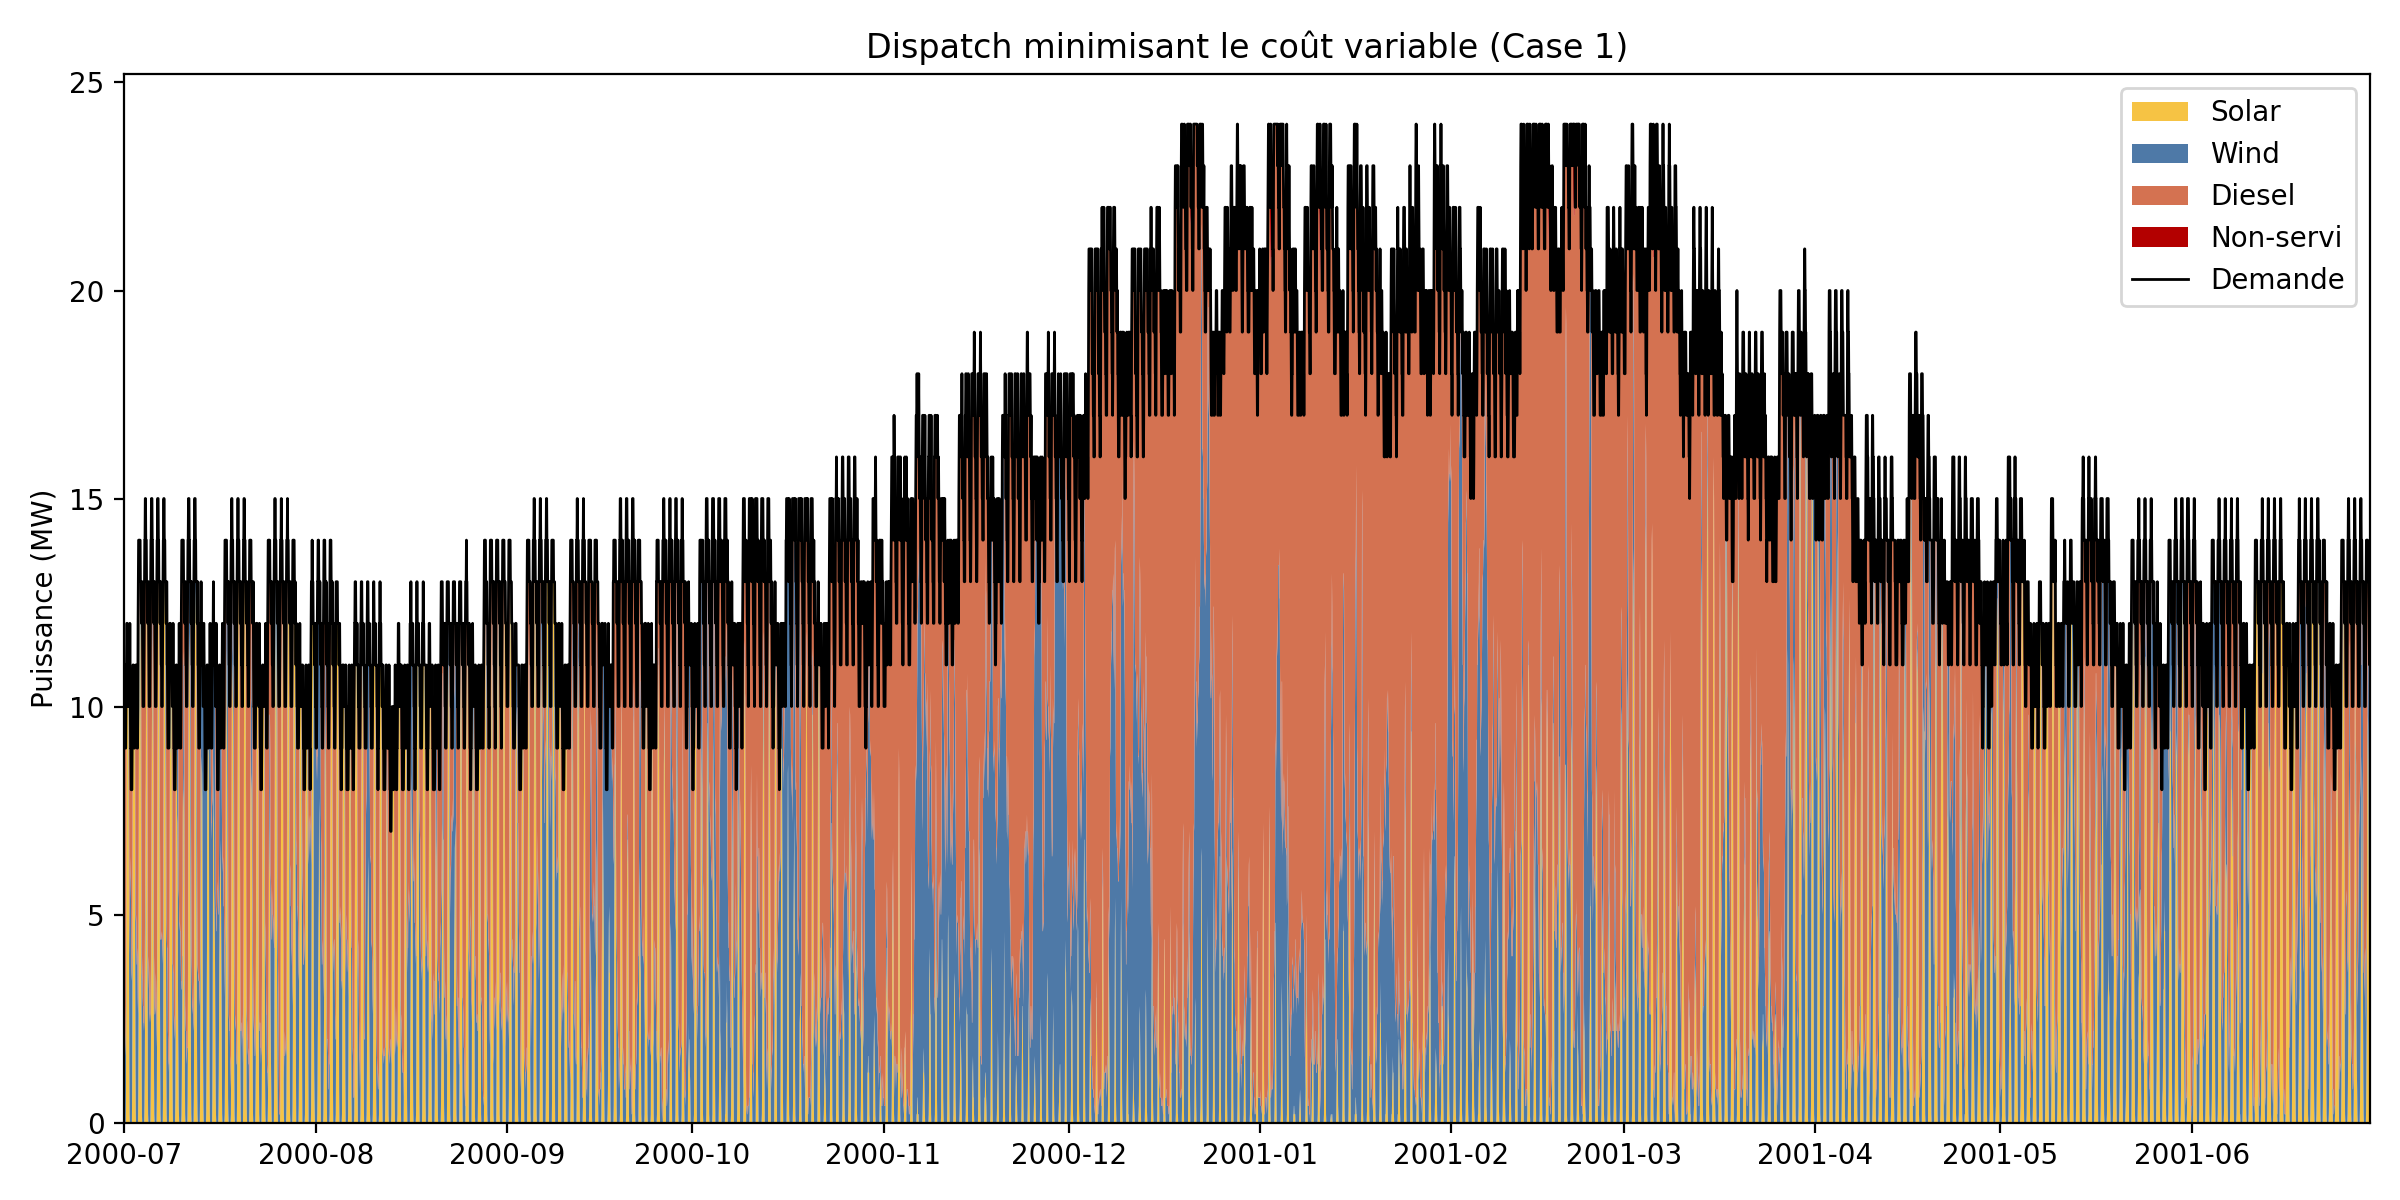
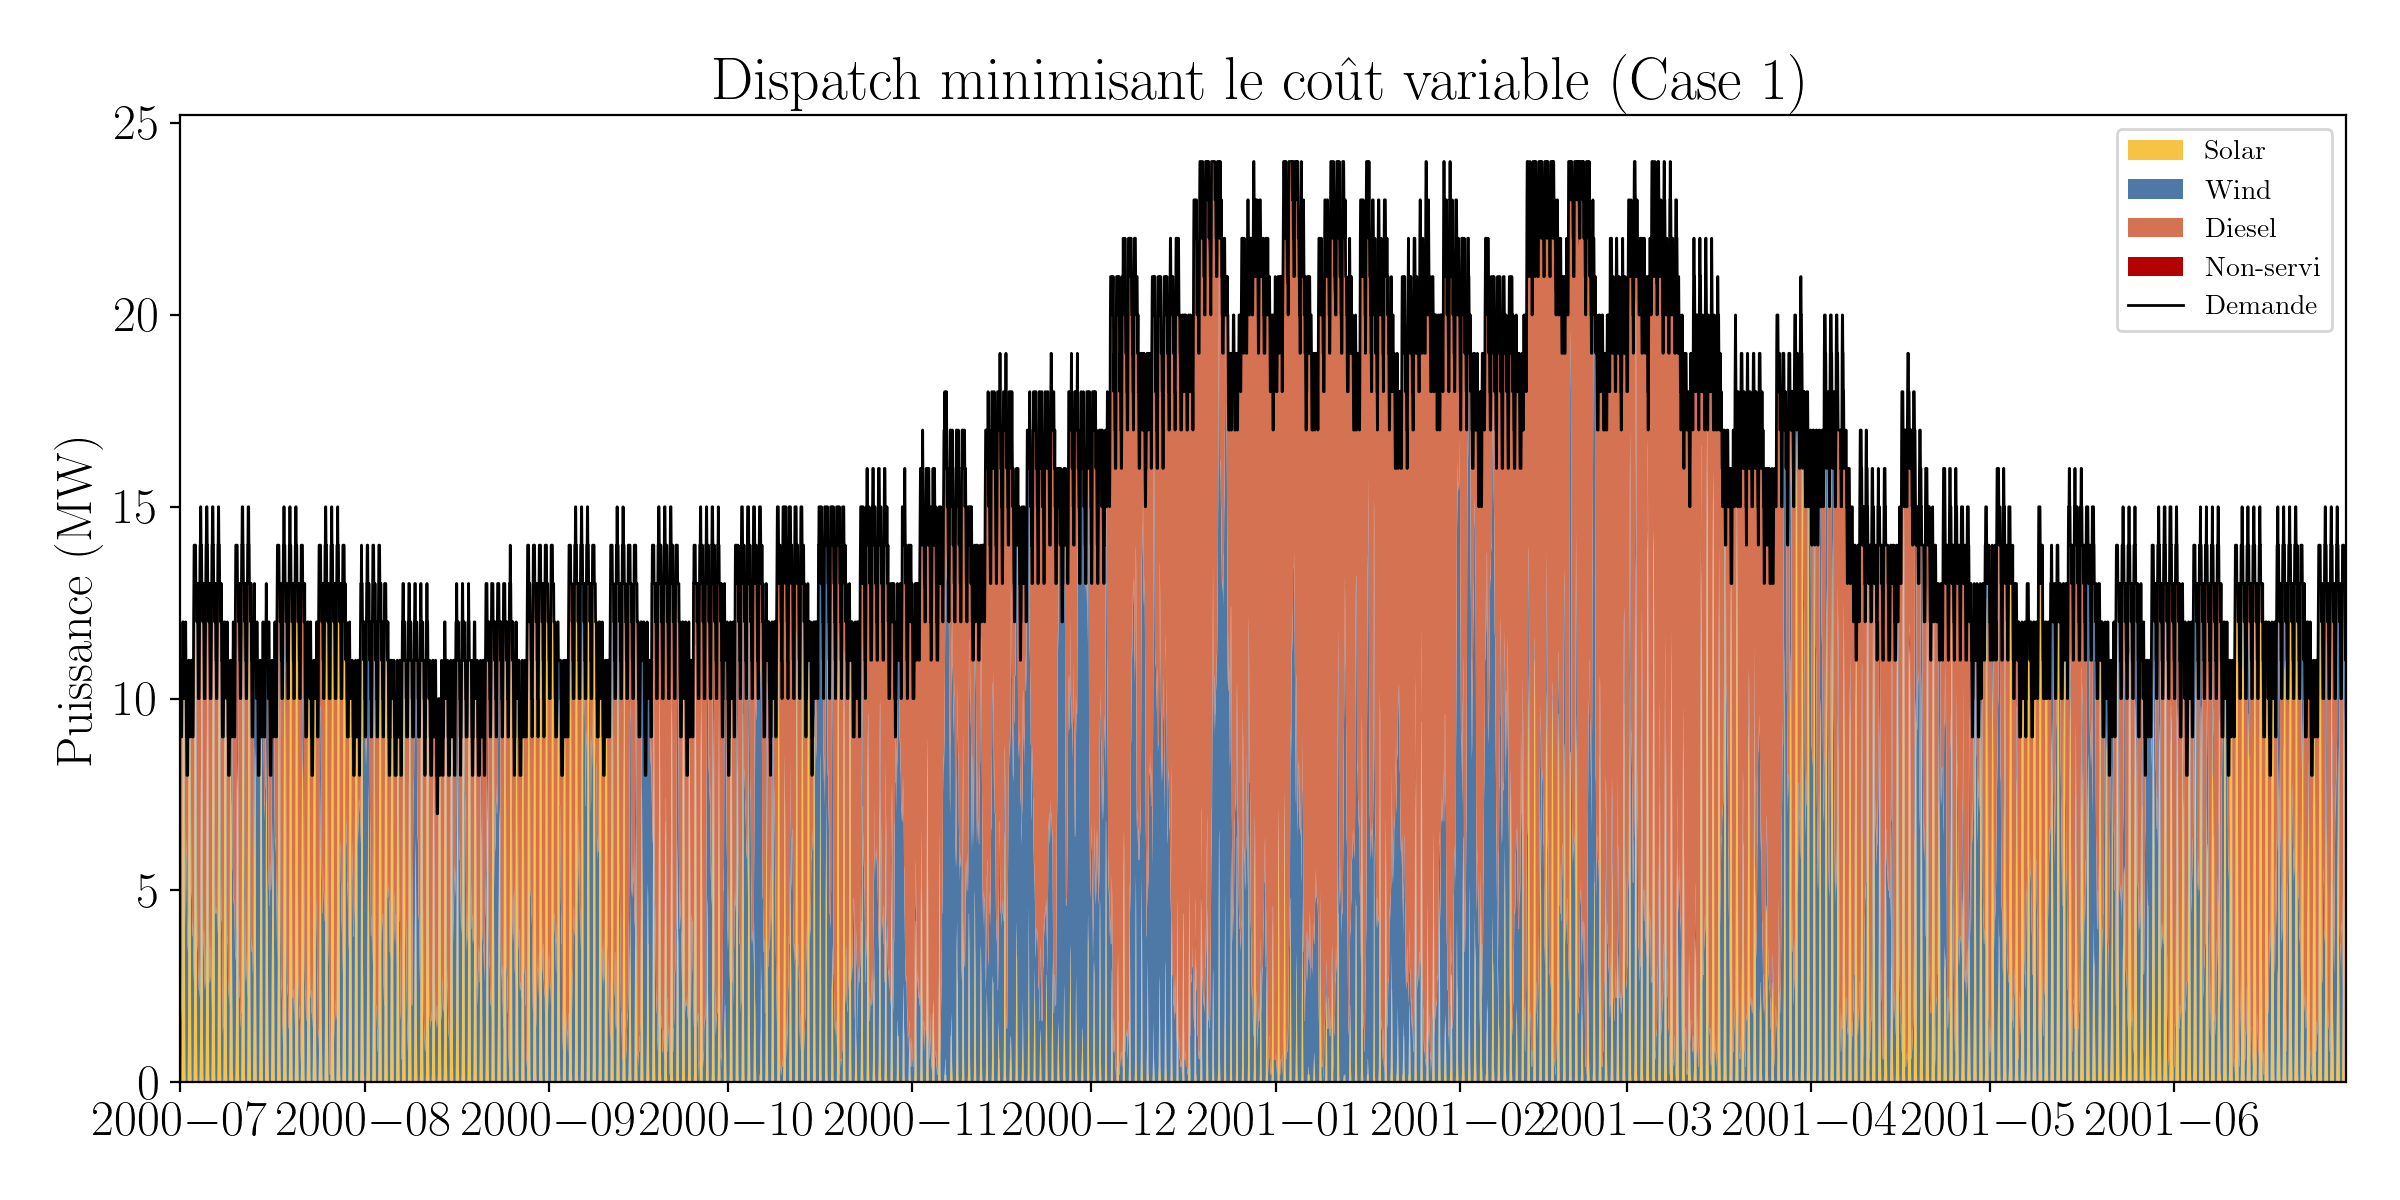
allocation min added

diff --git a/streamlit_dashboard.py b/streamlit_dashboard.py
@@ -1,0 +1,248 @@
+"""Dashboard Streamlit : profils bruts (charge et facteurs de charge) avec zoom/pan."""
+from pathlib import Path
+
+import pandas as pd
+import plotly.graph_objects as go
+from plotly.subplots import make_subplots
+import streamlit as st
+
+
+EXCEL_DEFAULT = Path("5EA14_project_isolated-system.xlsx")
+REF_COL = 8  # colonne "Ref case" dans la feuille summary
+
+st.set_page_config(layout="wide", page_title="Profils bruts énergie")
+
+
+@st.cache_data(show_spinner=False)
+def load_inputs(excel_path: Path) -> tuple[pd.DataFrame, dict]:
+    """Charge les séries brutes (load, facteurs de charge) et les capacités de référence pour info."""
+    summary = pd.read_excel(excel_path, sheet_name="summary", header=None)
+    capacities = {
+        "solar": float(summary.loc[2, REF_COL]),
+        "wind": float(summary.loc[3, REF_COL]),
+        "diesel": float(summary.loc[4, REF_COL]),
+    }
+    costs = {
+        "diesel": float(summary.loc[7, 2]),
+        "unserved": float(summary.loc[6, 2]),
+    }
+
+    raw = pd.read_excel(excel_path, sheet_name="Ref case", header=None)
+    data = (
+        raw.iloc[4:, [4, 5, 19, 20]]
+        .rename(columns={4: "time", 5: "load", 19: "solar_cf", 20: "wind_cf"})
+        .dropna(subset=["load"])
+    )
+    data["time"] = pd.to_datetime(data["time"])
+    for col_name in ("load", "solar_cf", "wind_cf"):
+        data[col_name] = pd.to_numeric(data[col_name], errors="coerce")
+    data = data.dropna(subset=["time", "load"]).reset_index(drop=True)
+    return data, {"capacities": capacities, "costs": costs}
+
+
+def dispatch_min_cost(load: pd.Series, solar_cf: pd.Series, wind_cf: pd.Series, capacities: dict, costs: dict) -> pd.DataFrame:
+    """
+    Dispatch greedy pour minimiser le coût variable :
+    on trie les sources par coût croissant, puis on affecte jusqu'à couvrir la demande.
+    """
+    n = len(load)
+    avail = {
+        "solar": capacities["solar"] * solar_cf.to_numpy(),
+        "wind": capacities["wind"] * wind_cf.to_numpy(),
+        "diesel": pd.Series([capacities["diesel"]] * n, index=load.index).to_numpy(),
+    }
+    order = sorted(["solar", "wind", "diesel"], key=lambda k: costs[k])
+    load_np = load.to_numpy().astype(float)
+    alloc = {k: [] for k in ["solar", "wind", "diesel", "unserved"]}
+
+    for i in range(len(load_np)):
+        remaining = load_np[i]
+        for src in order:
+            take = min(remaining, avail[src][i])
+            alloc[src].append(take)
+            remaining -= take
+        alloc["unserved"].append(max(remaining, 0))
+
+    dispatch = pd.DataFrame(alloc, index=load.index)
+    dispatch["variable_cost"] = (
+        dispatch["solar"] * costs["solar"]
+        + dispatch["wind"] * costs["wind"]
+        + dispatch["diesel"] * costs["diesel"]
+        + dispatch["unserved"] * costs["unserved"]
+    )
+    return dispatch
+
+
+def main() -> None:
+    st.title("Profils bruts : charge et facteurs de charge")
+    st.caption("Lecture directe du fichier Excel, sans modification ni choix de scénario.")
+
+    excel_path = st.text_input("Classeur Excel", value=str(EXCEL_DEFAULT))
+    excel_path = Path(excel_path)
+    if not excel_path.exists():
+        st.error(f"Fichier introuvable : {excel_path}")
+        return
+
+    data, defaults = load_inputs(excel_path)
+    capacities_ref = defaults["capacities"]
+    costs_ref = defaults["costs"]
+
+    st.subheader("Capacités de référence (info)")
+    col1, col2 = st.columns(2)
+    with col1:
+        st.metric("Solaire installé (réf.)", f"{capacities_ref['solar']} MW")
+    with col2:
+        st.metric("Éolien installé (réf.)", f"{capacities_ref['wind']} MW")
+
+    st.subheader("Graphique interactif (zoom/pan)")
+    fig = make_subplots(specs=[[{"secondary_y": True}]])
+    fig.add_trace(
+        go.Scatter(
+            x=data["time"],
+            y=data["load"],
+            name="Demande (MW)",
+            line=dict(color="black"),
+            hovertemplate="%{x|%Y-%m-%d %H:%M}<br>Demande: %{y:.2f} MW",
+        ),
+        secondary_y=False,
+    )
+    fig.add_trace(
+        go.Scatter(
+            x=data["time"],
+            y=data["solar_cf"],
+            name="Solar CF",
+            line=dict(color="#f6c344"),
+            hovertemplate="%{x|%Y-%m-%d %H:%M}<br>Solar CF: %{y:.2f}",
+        ),
+        secondary_y=True,
+    )
+    fig.add_trace(
+        go.Scatter(
+            x=data["time"],
+            y=data["wind_cf"],
+            name="Wind CF",
+            line=dict(color="#4e79a7"),
+            hovertemplate="%{x|%Y-%m-%d %H:%M}<br>Wind CF: %{y:.2f}",
+        ),
+        secondary_y=True,
+    )
+    fig.update_yaxes(title_text="Charge (MW)", secondary_y=False)
+    fig.update_yaxes(title_text="Facteur de charge", range=[0, 1], secondary_y=True)
+    fig.update_layout(
+        hovermode="x unified",
+        legend=dict(orientation="h", y=-0.2),
+        margin=dict(l=0, r=0, t=40, b=0),
+        height=450,
+    )
+    st.plotly_chart(fig, use_container_width=True)
+
+    with st.expander("Statistiques rapides"):
+        stats_df = pd.DataFrame(
+            {
+                "Demande (MW)": data["load"],
+                "Solar CF": data["solar_cf"],
+                "Wind CF": data["wind_cf"],
+            }
+        ).describe().T
+        st.dataframe(stats_df)
+
+    st.caption("Charge totale (axe gauche) et facteurs de charge solaire/éolien (axe droit) sur les données brutes. Aucune modification ni sélection de scénario.")
+
+    st.subheader("Allocation à coût variable minimal")
+    col_cap1, col_cap2, col_cap3 = st.columns(3)
+    with col_cap1:
+        cap_solar = st.number_input("Capacité solaire (MW)", value=float(capacities_ref["solar"]), min_value=0.0, step=1.0)
+    with col_cap2:
+        cap_wind = st.number_input("Capacité éolienne (MW)", value=float(capacities_ref["wind"]), min_value=0.0, step=1.0)
+    with col_cap3:
+        cap_diesel = st.number_input("Capacité diesel (MW)", value=float(capacities_ref["diesel"]), min_value=0.0, step=1.0)
+
+    col_cost1, col_cost2, col_cost3, col_cost4 = st.columns(4)
+    with col_cost1:
+        cost_solar = st.number_input("Coût variable solaire (€/MWh)", value=0.0, min_value=0.0, step=1.0)
+    with col_cost2:
+        cost_wind = st.number_input("Coût variable éolien (€/MWh)", value=0.0, min_value=0.0, step=1.0)
+    with col_cost3:
+        cost_diesel = st.number_input("Coût variable diesel (€/MWh)", value=float(costs_ref["diesel"]), min_value=0.0, step=1.0)
+    with col_cost4:
+        cost_unserved = st.number_input("Coût énergie non servie (€/MWh)", value=float(costs_ref["unserved"]), min_value=0.0, step=100.0)
+
+    capacities_run = {"solar": cap_solar, "wind": cap_wind, "diesel": cap_diesel}
+    costs_run = {
+        "solar": cost_solar,
+        "wind": cost_wind,
+        "diesel": cost_diesel,
+        "unserved": cost_unserved,
+    }
+
+    dispatch = dispatch_min_cost(
+        load=data["load"],
+        solar_cf=data["solar_cf"],
+        wind_cf=data["wind_cf"],
+        capacities=capacities_run,
+        costs=costs_run,
+    )
+
+    st.caption(
+        f"Coût variable total : {dispatch['variable_cost'].sum():,.0f} € "
+        f"(sur {len(dispatch)} pas horaires)"
+    )
+
+    st.subheader("Dispatch (stack sous la demande)")
+    dispatch_plot = make_subplots(specs=[[{"secondary_y": False}]])
+    dispatch_plot.add_trace(
+        go.Scatter(
+            x=data["time"],
+            y=data["load"],
+            name="Demande",
+            line=dict(color="black", width=1.2),
+            hovertemplate="%{x|%Y-%m-%d %H:%M}<br>Demande: %{y:.2f} MW",
+        )
+    )
+    for src, color in [
+        ("solar", "#f6c344"),
+        ("wind", "#4e79a7"),
+        ("diesel", "#d47251"),
+        ("unserved", "#b30000"),
+    ]:
+        dispatch_plot.add_trace(
+            go.Scatter(
+                x=data["time"],
+                y=dispatch[src],
+                name=src.capitalize(),
+                stackgroup="one",
+                line=dict(width=0.5, color=color),
+                hovertemplate="%{x|%Y-%m-%d %H:%M}<br>" + src + ": %{y:.2f} MW",
+            )
+        )
+    dispatch_plot.update_layout(
+        hovermode="x unified",
+        legend=dict(orientation="h", y=-0.2),
+        margin=dict(l=0, r=0, t=40, b=0),
+        height=500,
+    )
+    dispatch_plot.update_yaxes(title_text="Puissance (MW)")
+    st.plotly_chart(dispatch_plot, use_container_width=True)
+
+    st.subheader("Coûts variables cumulés")
+    cum_cost = dispatch["variable_cost"].cumsum()
+    cost_fig = go.Figure(
+        go.Scatter(
+            x=data["time"],
+            y=cum_cost,
+            name="Coût cumulé",
+            line=dict(color="#444", width=1.5),
+            hovertemplate="%{x|%Y-%m-%d %H:%M}<br>Coût cumulé: %{y:,.0f} €",
+        )
+    )
+    cost_fig.update_layout(
+        hovermode="x unified",
+        margin=dict(l=0, r=0, t=40, b=0),
+        height=350,
+        yaxis_title="€ cumulés",
+    )
+    st.plotly_chart(cost_fig, use_container_width=True)
+
+
+if __name__ == "__main__":
+    main()

diff --git a/dispatch_optimizer.py b/dispatch_optimizer.py
@@ -7,9 +7,20 @@ from __future__ import annotations
 import argparse
 from pathlib import Path
 
+import matplotlib
 import matplotlib.pyplot as plt
 import numpy as np
 import pandas as pd
+
+default_colors = plt.rcParams["axes.prop_cycle"].by_key()["color"]
+
+plt.rcParams.update({
+    "text.usetex": True,         # Utiliser LaTeX pour le rendu des textes
+    "font.family": "serif",      # Utiliser une police de caractères avec empattement (serif)
+    "font.size" : "18",
+    "legend.fontsize": 10,
+    #"text.latex.preamble": r'\usepackage{bm}'
+})
 
 
 SCENARIO_COLS = {"Ref case": 8, "Case 1": 9, "Case 2": 10}
@@ -72,10 +83,48 @@ def dispatch_min_cost(
     return dispatch
 
 
+def _ensure_interactive_backend() -> None:
+    """If current backend is non-interactive (e.g., Agg), try to switch to an interactive one."""
+    backend = matplotlib.get_backend().lower()
+    if "agg" in backend:
+        for candidate in ("TkAgg", "MacOSX", "Qt5Agg"):
+            try:
+                plt.switch_backend(candidate)
+                return
+            except Exception:
+                continue
+
+
+def plot_profile(
+    data: pd.DataFrame, capacities: dict, scenario: str, output: Path, show: bool
+) -> None:
+    """Plot raw load and available solar/wind profiles to visualize resource shapes."""
+    if show:
+        _ensure_interactive_backend()
+    solar_avail = capacities["solar"] * data["solar_cf"]
+    wind_avail = capacities["wind"] * data["wind_cf"]
+
+    fig, ax = plt.subplots(figsize=(12, 4))
+    ax.plot(data["time"], data["load"], color="black", linewidth=1.0, label="Demande brute")
+    ax.plot(data["time"], solar_avail, color="#f6c344", linewidth=0.8, label="Solar dispo")
+    ax.plot(data["time"], wind_avail, color="#4e79a7", linewidth=0.8, label="Wind dispo")
+    ax.set_title(f"Profils bruts (load et ressources) - {scenario}")
+    ax.set_ylabel("Puissance (MW)")
+    ax.margins(x=0)
+    ax.legend(loc="upper right")
+    fig.tight_layout()
+    fig.savefig(output, dpi=200)
+    if show:
+        plt.show()
+    plt.close(fig)
+
+
 def plot_dispatch(
     dispatch: pd.DataFrame, scenario: str, output: Path, show: bool
 ) -> None:
     """Create stacked area plot showing how supply meets load."""
+    if show:
+        _ensure_interactive_backend()
     fig, ax = plt.subplots(figsize=(12, 6))
     ax.stackplot(
         dispatch["time"],
@@ -123,6 +172,17 @@ def main() -> None:
         help="Nom du fichier PNG de sortie.",
     )
     parser.add_argument(
+        "--plot-profile",
+        action="store_true",
+        help="Génère un plot des profils bruts (load, solaire dispo, vent dispo) avant le dispatch.",
+    )
+    parser.add_argument(
+        "--profile-output",
+        type=Path,
+        default=Path("profile.png"),
+        help="Nom du PNG pour le plot des profils bruts.",
+    )
+    parser.add_argument(
         "--show",
         action="store_true",
         help="Affiche la figure à l'écran en plus de sauvegarder le PNG.",
@@ -130,6 +190,11 @@ def main() -> None:
     args = parser.parse_args()
 
     data, params = read_inputs(args.excel, args.scenario)
+
+    if args.plot_profile:
+        plot_profile(data, params["capacities"], args.scenario, args.profile_output, args.show)
+        print(f"Profil brut sauvegardé dans {args.profile_output}")
+
     dispatch = dispatch_min_cost(data, params["capacities"], params["costs"])
 
     total_var_cost = dispatch["variable_cost"].sum()
